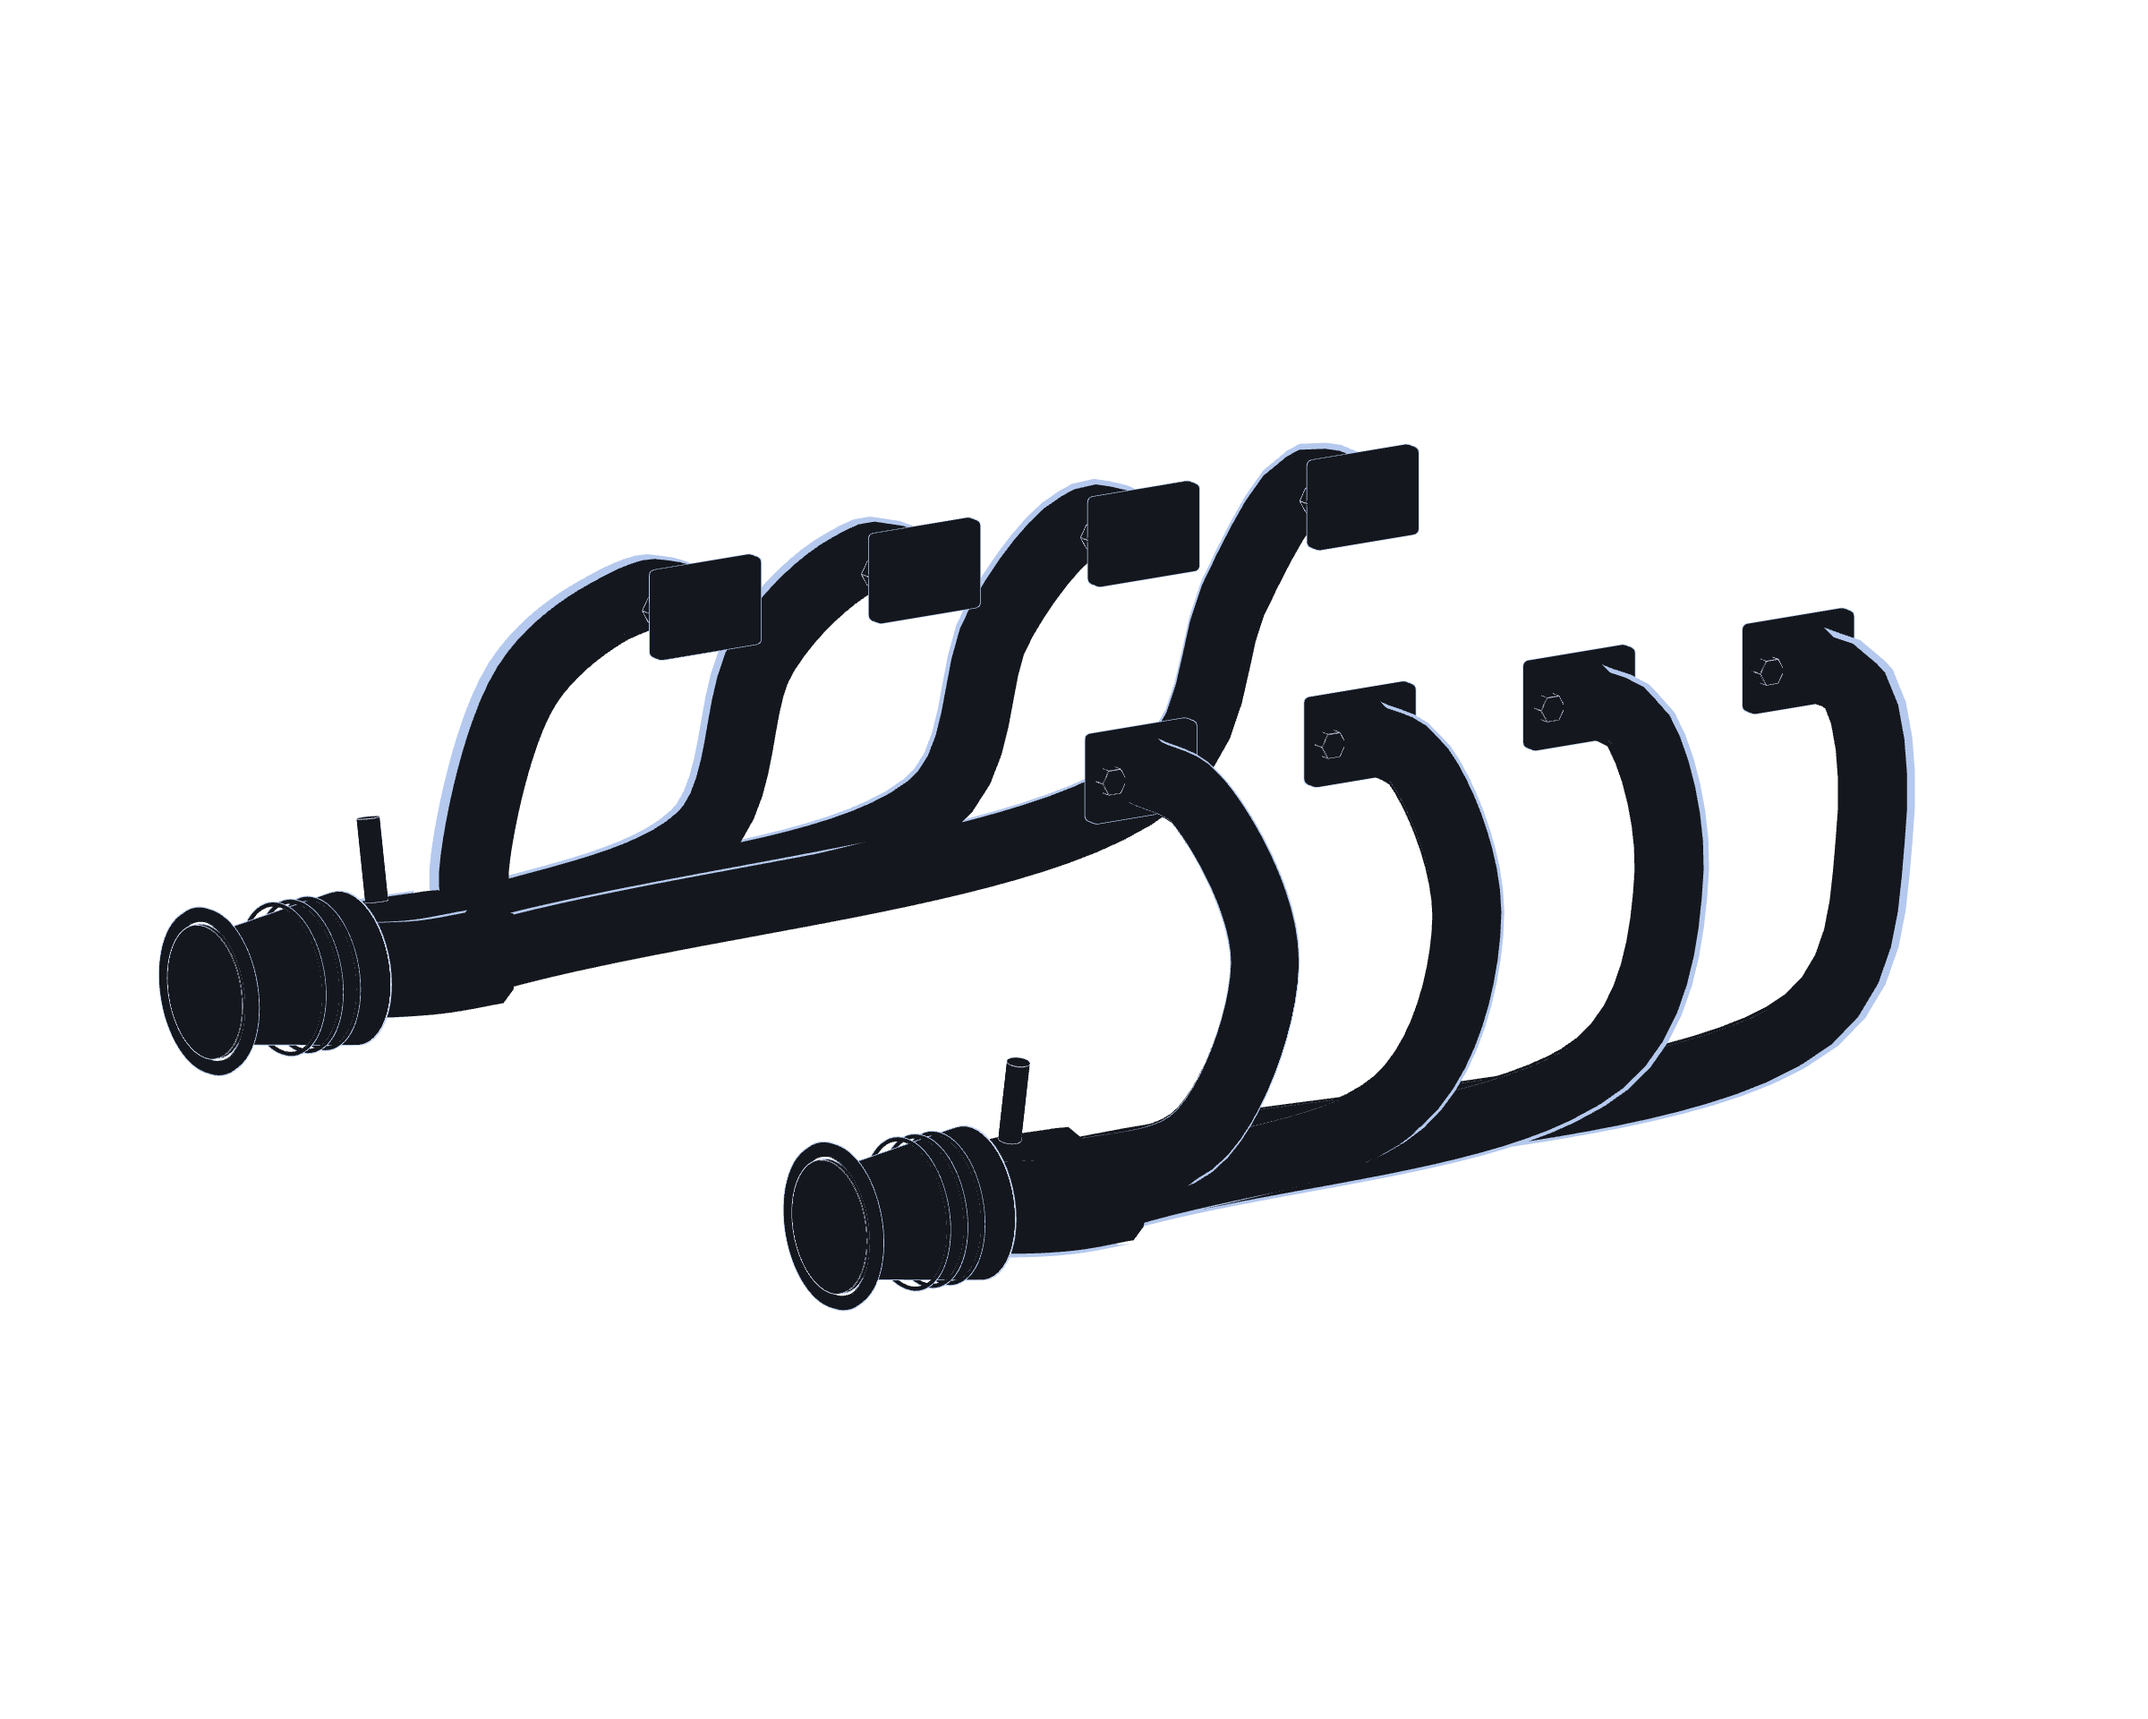
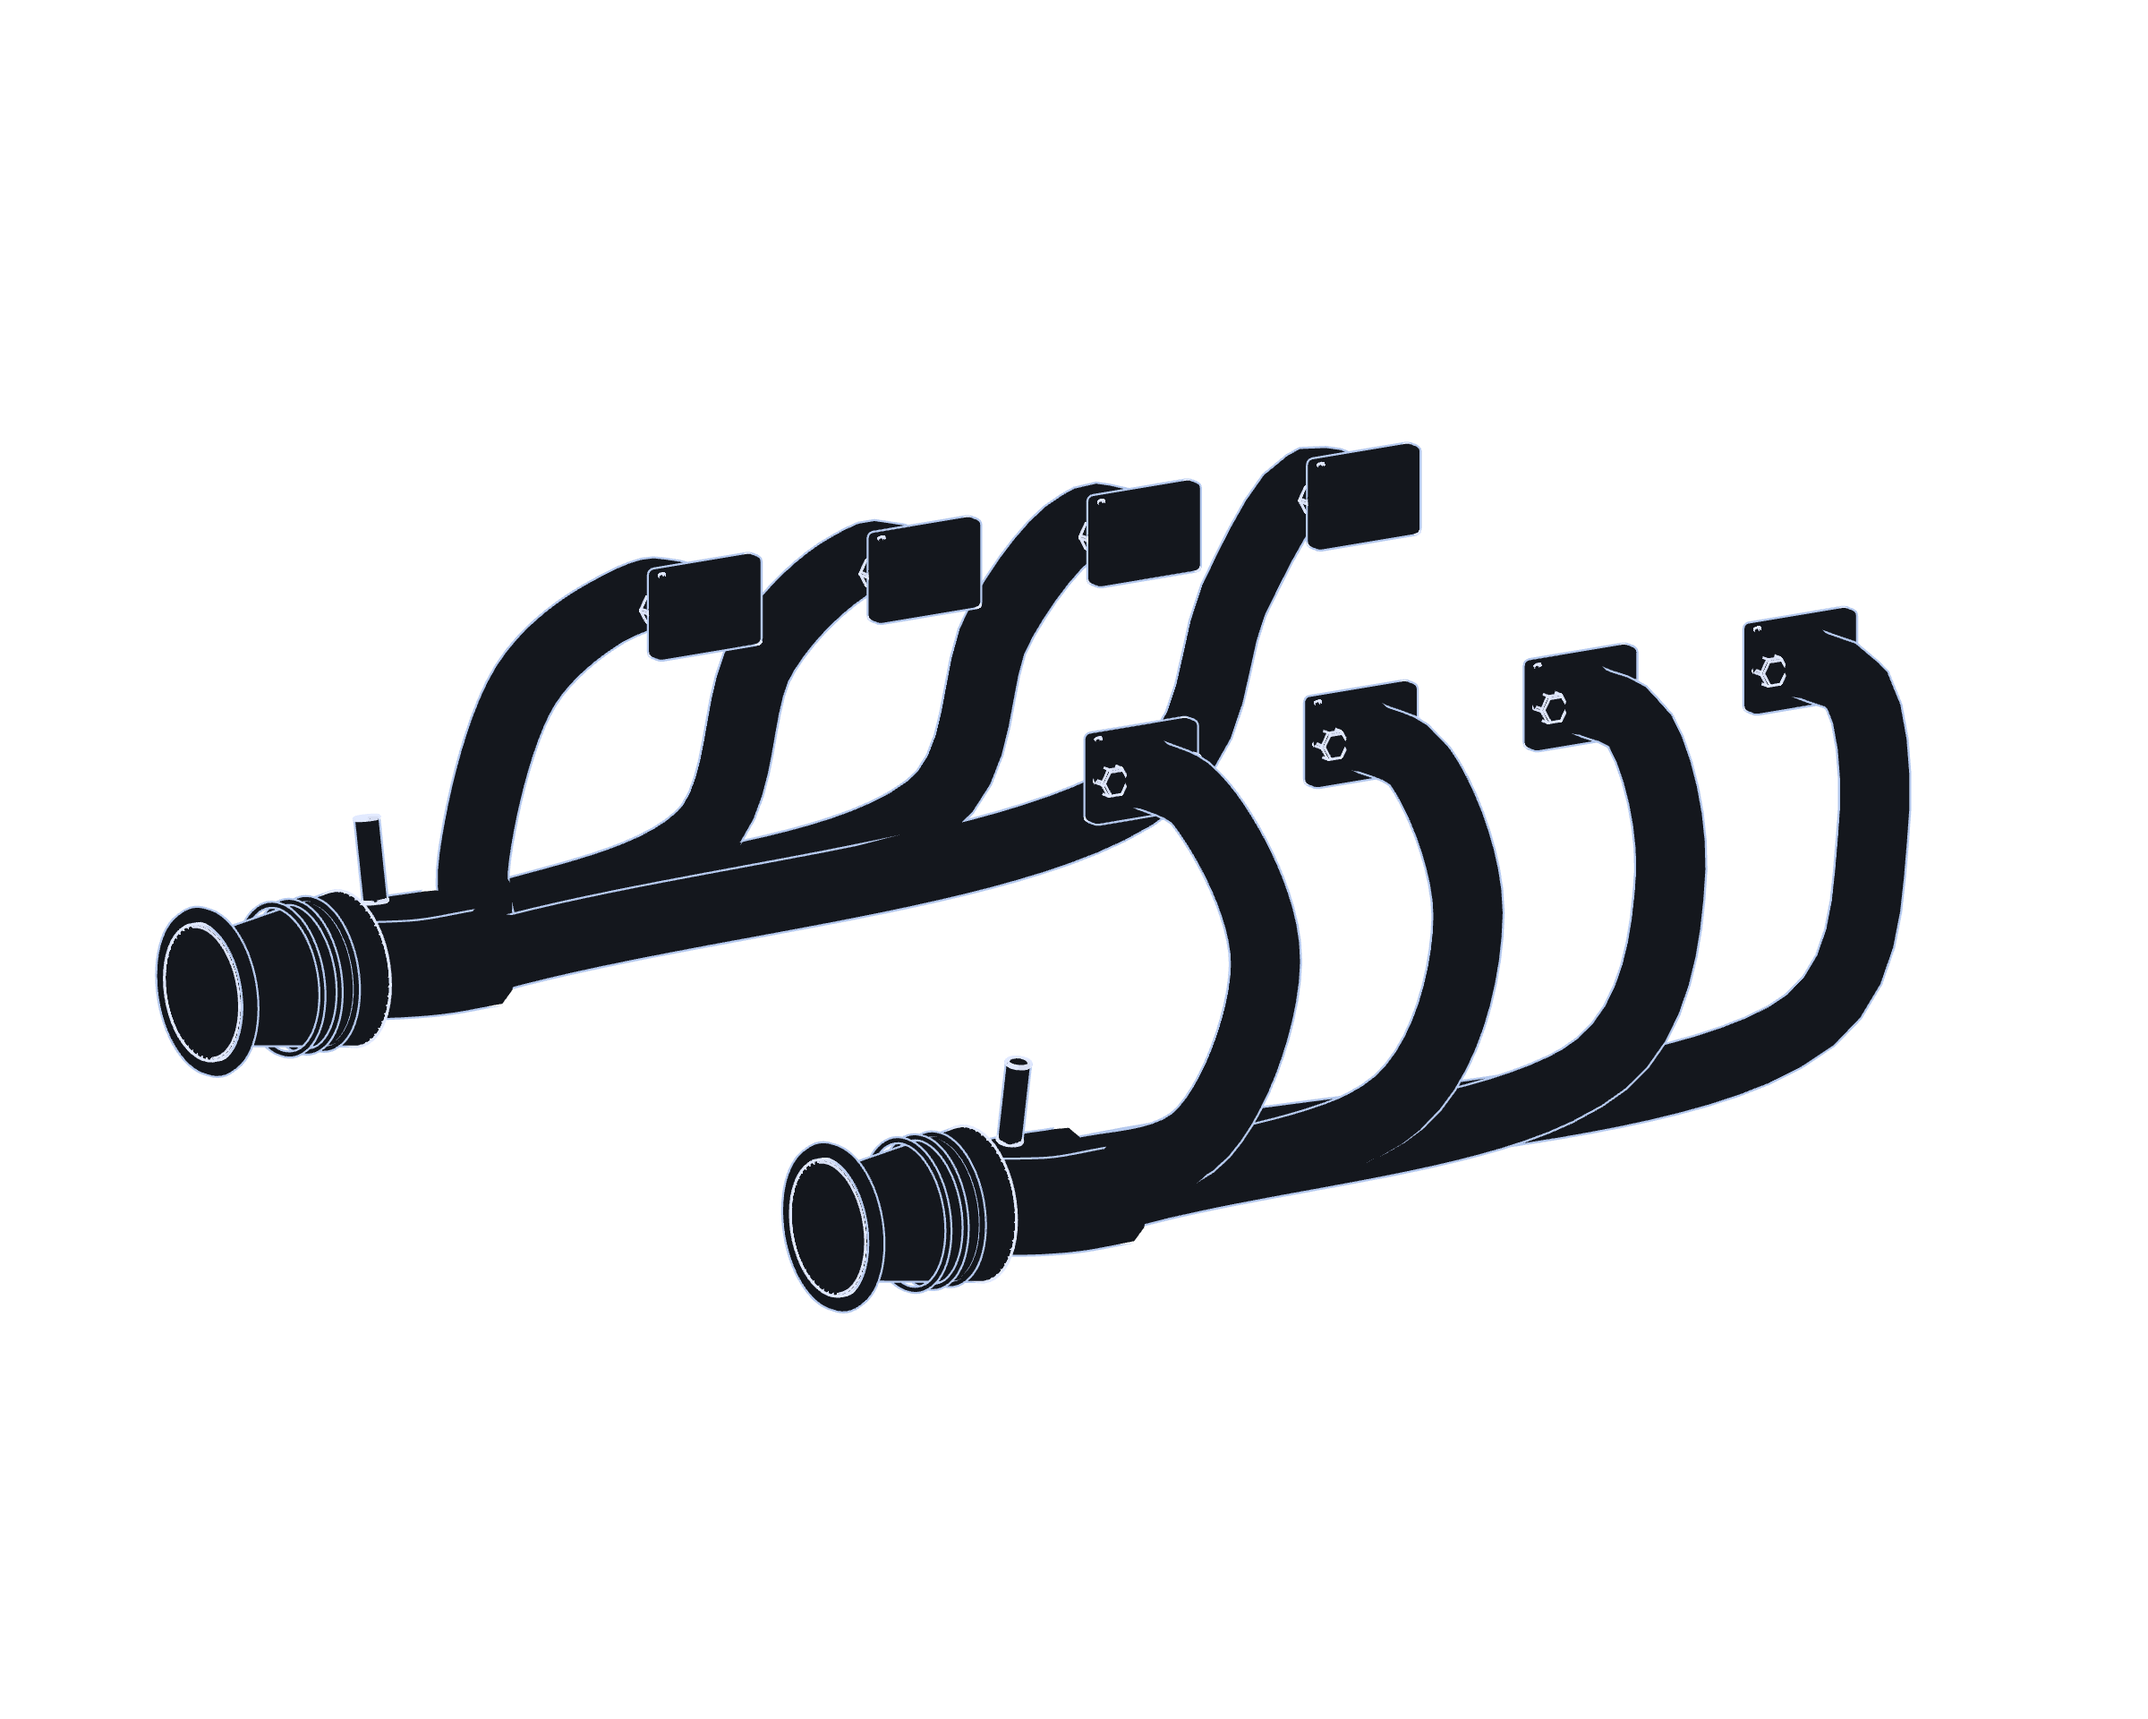
Polish contour visibility and validate LT6 motion and responsive layouts

diff --git a/tools/engine-model.js b/tools/engine-model.js
@@ -2,6 +2,9 @@
 // Coordinates: crankshaft along Z, two four-cylinder banks at +/-45 degrees.
 import * as T from "three";
 import { RoundedBoxGeometry } from "three/addons/geometries/RoundedBoxGeometry.js";
+import { LineSegments2 } from "three/addons/lines/LineSegments2.js";
+import { LineSegmentsGeometry } from "three/addons/lines/LineSegmentsGeometry.js";
+import { LineMaterial } from "three/addons/lines/LineMaterial.js";
 
 const colors = {
   alloy: 0xe8e9e7,
@@ -19,10 +22,12 @@ const mat = Object.fromEntries(
     new T.MeshBasicMaterial({ color: name === "accent" ? 0x244fba : 0x14171d }),
   ]),
 );
-const ink = new T.LineBasicMaterial({
+const ink = new LineMaterial({
   color: 0xe2eaff,
   transparent: true,
   opacity: 0.95,
+  linewidth: 6,
+  resolution: new T.Vector2(2400, 1920),
 });
 const hull = new T.MeshBasicMaterial({ color: 0xb5c9ee, side: T.BackSide });
 const Y = new T.Vector3(0, 1, 0);
@@ -40,10 +45,27 @@ function mesh(
   object.position.set(...pos);
   parent.add(object);
   if (edges)
-    object.add(new T.LineSegments(new T.EdgesGeometry(geometry, 32), ink));
+    object.add(
+      new LineSegments2(
+        new LineSegmentsGeometry().fromEdgesGeometry(
+          new T.EdgesGeometry(geometry, 24),
+        ),
+        ink,
+      ),
+    );
   // Inverted surface hulls give curved parts their technical-illustration silhouette.
-  const outline = new T.Mesh(geometry, hull);
-  outline.scale.setScalar(1.012);
+  const contour = geometry.clone();
+  const positions = contour.attributes.position;
+  const normals = contour.attributes.normal;
+  for (let i = 0; i < positions.count; i++) {
+    positions.setXYZ(
+      i,
+      positions.getX(i) + normals.getX(i) * 0.008,
+      positions.getY(i) + normals.getY(i) * 0.008,
+      positions.getZ(i) + normals.getZ(i) * 0.008,
+    );
+  }
+  const outline = new T.Mesh(contour, hull);
   object.add(outline);
   return object;
 }
@@ -264,71 +286,6 @@ function plug() {
   ring(g, 0.085, 0.012, [0, 0.35, 0], "gasket");
   return g;
 }
-function pistonUnit() {
-  const g = new T.Group();
-  lathe(g, [
-    [0.34, -0.23],
-    [0.39, -0.18],
-    [0.39, 0.16],
-    [0.397, 0.2],
-    [0.397, 0.23],
-    [0.35, 0.245],
-    [0.28, 0.215],
-    [0, 0.215],
-  ]);
-  for (const y of [0.08, 0.135, 0.19]) ring(g, 0.395, 0.012, [0, y, 0], "dark");
-  const pin = cyl(g, 0.09, 0.78, [0, -0.07, 0], "steel");
-  pin.rotation.z = Math.PI / 2;
-  // Forged connecting rod: flanged I-section with a bored big end.
-  box(g, 0.13, 0.78, 0.11, [0, -0.65, 0], "steel");
-  for (const z of [-0.065, 0.065])
-    box(g, 0.22, 0.82, 0.035, [0, -0.65, z], "machined");
-  ring(g, 0.195, 0.075, [0, -1.08, 0], "machined", "z");
-  ring(g, 0.14, 0.018, [0, -1.08, 0.073], "steel", "z");
-  box(g, 0.45, 0.105, 0.23, [0, -1.24, 0]);
-  for (const x of [-0.2, 0.2]) {
-    bolt(g, [x, -1.18, 0]);
-    rod(g, [x, -1.34, 0], [x, -1.11, 0], 0.035);
-  }
-  return g;
-}
-function crankshaft() {
-  const g = new T.Group();
-  const shaft = cyl(g, 0.16, 5.45, [0, 0, 0], "steel");
-  shaft.rotation.x = Math.PI / 2;
-  for (let i = 0; i < 5; i++) {
-    const z = -2.04 + i * 1.02;
-    const bearing = cyl(g, 0.245, 0.28, [0, 0, z]);
-    bearing.rotation.x = Math.PI / 2;
-    ring(g, 0.245, 0.012, [0, 0, z + 0.1], "dark", "z");
-  }
-  zs.forEach((z, i) => {
-    const offset = (i === 0 || i === 3 ? 1 : -1) * 0.32;
-    for (const dz of [-0.32, 0.32]) {
-      // Rounded counterweights opposite each flat-plane throw.
-      const w = cyl(g, 0.41, 0.16, [0, -offset * 0.6, z + dz], "steel");
-      w.rotation.x = Math.PI / 2;
-      box(g, 0.36, 0.55, 0.15, [0, offset * 0.25, z + dz], "steel", 0.07);
-    }
-    const pin = cyl(g, 0.18, 0.49, [0, offset, z]);
-    pin.rotation.x = Math.PI / 2;
-    for (const dz of [-0.2, 0.2])
-      ring(g, 0.18, 0.01, [0, offset, z + dz], "dark", "z");
-  });
-  const flange = cyl(g, 0.49, 0.18, [0, 0, 2.68]);
-  flange.rotation.x = Math.PI / 2;
-  for (let i = 0; i < 8; i++) {
-    const a = (i * Math.PI) / 4;
-    bolt(g, [0.35 * Math.cos(a), 0.35 * Math.sin(a), 2.79], "z");
-  }
-  const pulley = cyl(g, 0.55, 0.24, [0, 0, -2.73], "dark");
-  pulley.rotation.x = Math.PI / 2;
-  for (const z of [-2.85, -2.77, -2.69])
-    ring(g, 0.55, 0.018, [0, 0, z], "steel", "z");
-  const hub = cyl(g, 0.17, 0.28, [0, 0, -2.78]);
-  hub.rotation.x = Math.PI / 2;
-  return g;
-}
 function intake() {
   const g = new T.Group();
   for (const side of [-1, 1]) {
@@ -478,55 +435,7 @@ function ecu() {
   return g;
 }
 
-export function createModel() {
-  const root = new T.Group(),
-    groups = {
-      block: block(),
-      head: heads(),
-      crank: crankshaft(),
-      intake: intake(),
-      headers: headers(),
-      transmission: transmission(),
-      ecu: ecu(),
-      spark: new T.Group(),
-      pistons: new T.Group(),
-    };
-  const pistonNodes = [];
-  for (const side of [-1, 1]) {
-    const pb = bank(groups.pistons, side),
-      sb = bank(groups.spark, side);
-    zs.forEach((z, i) => {
-      const p = pistonUnit();
-      p.position.set(0, 1.37, z);
-      pb.add(p);
-      pistonNodes.push({ object: p, i, side });
-      const s = plug();
-      s.position.set(0, 1.95, z);
-      sb.add(s);
-    });
-  }
-  groups.ecu.position.set(-2.3, 0.25, -1.1);
-  groups.ecu.rotation.z = Math.PI / 2;
-  Object.entries(groups).forEach(([name, g]) => {
-    g.name = name;
-    root.add(g);
-  });
-  function pose(phase) {
-    groups.crank.rotation.z = phase;
-    pistonNodes.forEach(({ object, i, side }) => {
-      const theta =
-        phase + (i === 0 || i === 3 ? 0 : Math.PI) + (side * Math.PI) / 4;
-      object.position.y = 1.37 + 0.2 * Math.cos(theta);
-      object.children[0].material =
-        Math.cos(theta) > 0.88 ? mat.firing : mat.machined;
-    });
-  }
-  return { root, groups, pose };
-}
-
 export function createDisplay(id) {
-  const model = createModel();
-  if (id === "engine") return { root: model.root, pose: model.pose };
   if (id === "spark") {
     const root = new T.Group(),
       s = plug();
@@ -535,17 +444,12 @@ export function createDisplay(id) {
     root.add(s);
     return { root, pose: () => {} };
   }
-  if (id === "pistons") {
-    // Exposed eight-piston / flat-plane crank assembly, matching the reference.
-    const root = new T.Group();
-    root.add(model.groups.pistons, model.groups.crank);
-    return { root, pose: model.pose };
-  }
-  const root = model.groups[id];
+  // Moving components are drawn by engine-drawing.js from mechanics.js.
+  const root = { head: heads, block, intake, headers, transmission, ecu }[id]();
   root.position.set(0, 0, 0);
   root.rotation.set(0, 0, 0);
   return {
     root,
-    pose: id === "crank" ? (phase) => (root.rotation.z = phase) : () => {},
+    pose: () => {},
   };
 }

diff --git a/engine-drawing.js b/engine-drawing.js
@@ -140,12 +140,17 @@ class EngineDrawing {
     for (const h of [0.1, 0.16, 0.22]) this.path(ring(h), color);
     this.path(ring(0.22), color, firing ? this.pulse : this.paper, 1.4, true);
     // Valve reliefs, lightly etched into the crown.
-    for (const x of [-0.19, 0.19]) {
+    for (const [x, z] of [
+      [-0.19, -0.17],
+      [-0.19, 0.17],
+      [0.19, -0.17],
+      [0.19, 0.17],
+    ]) {
       const pts = Array.from({ length: 17 }, (_, i) =>
         local(
           x + 0.115 * Math.cos((i / 16) * Math.PI * 2),
           0.225,
-          0.115 * Math.sin((i / 16) * Math.PI * 2),
+          z + 0.115 * Math.sin((i / 16) * Math.PI * 2),
         ),
       );
       this.path(pts, firing ? this.blue : this.faint);

diff --git a/styles.css b/styles.css
@@ -262,7 +262,7 @@ main {
 }
 .terminal-content {
   padding: 29px 28px 24px;
-  max-height: calc(100dvh - 310px);
+  max-height: calc(100dvh - 340px);
   overflow: auto;
   scrollbar-width: thin;
 }
@@ -968,7 +968,7 @@ body[data-state="inspecting"] .assembly {
   position: absolute;
   inset: 0;
   width: 100%;
-  height: 100%;
+  height: calc(100% - 65px);
 }
 .showroom-halo {
   position: absolute;

diff --git a/script.js b/script.js
@@ -430,7 +430,7 @@ function tickTelemetry(time) {
   if (Math.abs(targetRpm - rpm) < 3) rpm = targetRpm;
   if (time - lastSample > 80 || rpm === targetRpm) {
     $("rpm").textContent = String(Math.round(rpm / 10) * 10).padStart(4, "0");
-    $("rpm-bar").style.width = `${rpm / 90}%`;
+    $("rpm-bar").style.width = `${rpm / 86}%`;
     lastSample = time;
   }
   if (gain && audioContext) {

diff --git a/README.md b/README.md
@@ -19,7 +19,7 @@ The document never scrolls. Long descriptions and project details scroll inside 
 
 `script.js` contains portfolio content in `parts`, commands and RPM targets in `commands`, and the interruptible component selector. `styles.css` defines the warm white startup and graphite inspection palettes, responsive layouts, and reduced-motion behavior.
 
-`mechanics.js` supplies the shared crankpin positions and exact slider-crank equations. `engine-drawing.js` draws the exposed mechanism as crisp projected contours using Canvas2D at up to 2× display resolution. Each connecting rod has constant length and stays attached to its crankpin. Four shared crankpins use an up/down/down/up arrangement, with five main journals and two cylinder banks at 90°. The four-stroke firing sequence is **1–4–3–8–7–6–5–2**, with one ignition every 90° and one firing per cylinder every 720°. The blue crown and numbered sequence track the power stroke, not every top-dead-center event.
+`mechanics.js` supplies the shared crankpin positions and exact slider-crank equations. `engine-drawing.js` draws the exposed mechanism as crisp projected contours using Canvas2D at up to 2× display resolution. Each connecting rod has constant length and stays attached to its crankpin. Four shared crankpins use an up/down/down/up arrangement, with five main journals and two cylinder banks at 90°. The four-stroke firing sequence is **1–4–3–8–7–6–5–2**, with one ignition every 90° and one firing per cylinder every 720°. The blue crown and numbered sequence highlight the latest firing cylinder for 90°; they do not imply that the entire power stroke lasts only 90° or that ignition occurs at every top-dead-center event.
 
 The visual runs in explicitly labeled slow motion so its sequence remains readable. Indicated RPM follows the terminal commands; it is not the animation playback rate. Combustion timing is idealized at TDC, without spark advance. Rod length, counterweight contours, bank offset, housings, ECU, and transmission are illustrative, not OEM measurements or factory CAD. The drawing verifies mechanical relationships without claiming manufacturing accuracy.
 
